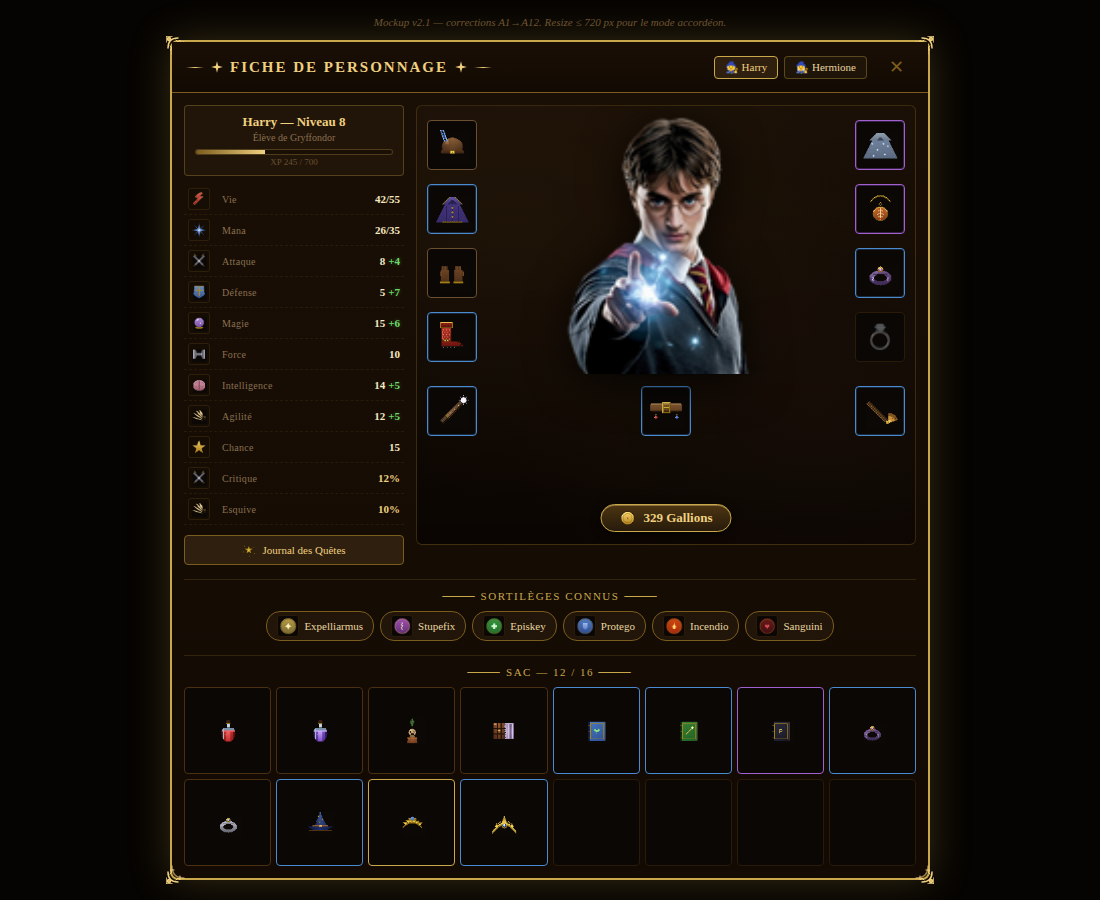
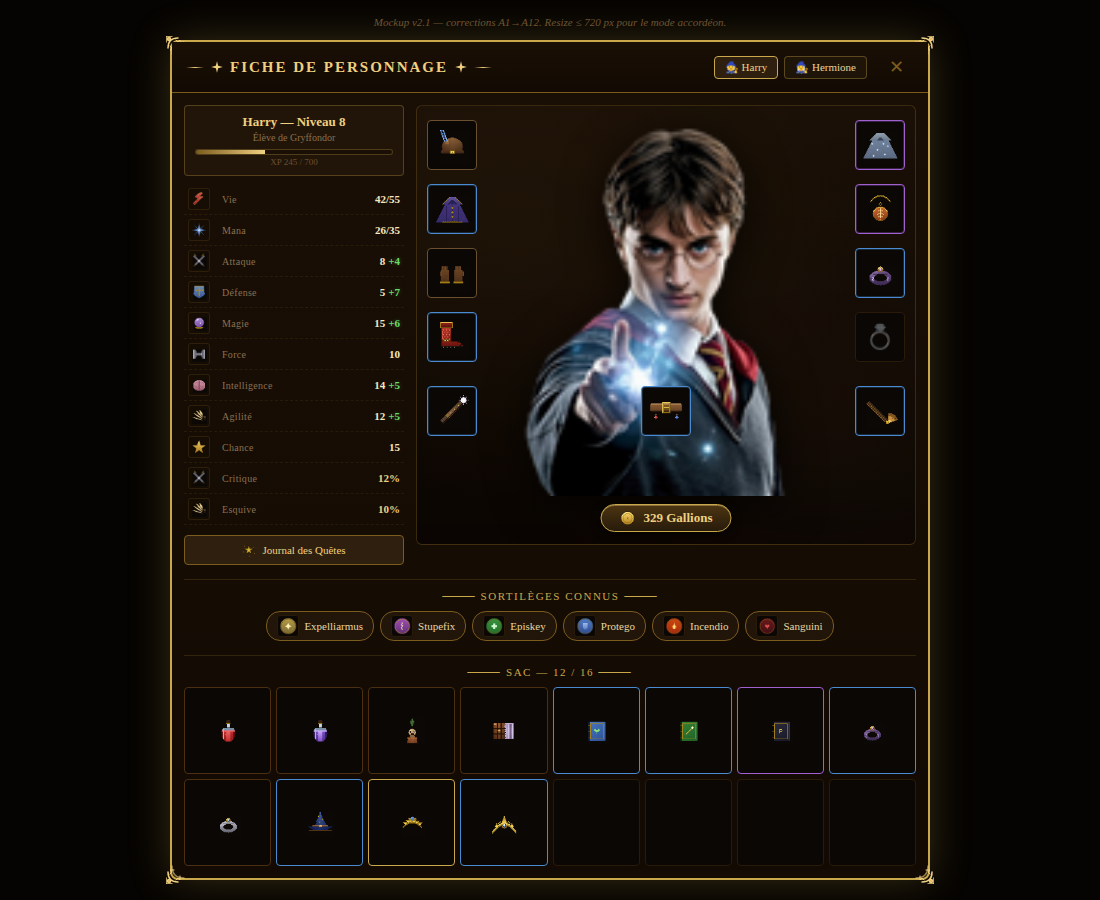
fix(character): mockup v2.5 — buste prend VRAIMENT l'espace disponible
v2.4 laissait 170px de marge basse + 70px de marge horizontale, soit
un wrapper de 260×260 dans un paper-doll de 440px : 59% seulement.
L'utilisateur avait raison de dire qu'il n'y avait pas de changement
visible.

Corrections :
- Wrapper marges réduites : top:4 / bottom:48 / left:64 / right:64
  → zone exploitée ~380×320, l'image carrée s'étire à 320×320.
- Slots équipement z-index:3 (au-dessus du buste z:2) → restent
  cliquables même si le buste passe sous eux.
- Slot belt overlay sur la ceinture du perso, comportement classique
  paper doll.
- Mobile : même resserrement (top:4 bottom:50 left:56 right:56).

Comparaison visuelle desktop (px du buste effectif) :
  v2.1 : ~210   v2.2 : ~220   v2.3 : ~120   v2.4 : ~260   v2.5 : ~320

Changed region(s): [[0.4636, 0.1244, 0.7109, 0.56]]

diff --git a/tools/mockup_character_v2.html b/tools/mockup_character_v2.html
@@ -200,14 +200,16 @@ body {
   border-radius:6px;
   overflow:hidden;
 }
-/* A1ter — buste = tout l'espace libre entre slots latéraux et slots du bas.
-   Wrapper absolu pour définir la zone, img à 100%/100% + object-fit:contain
-   pour que l'image carrée 128×128 s'adapte au min(W,H) sans déformation.
-   Sans wrapper : img absolu garde sa taille intrinsèque (cf. v2.3 raté). */
+/* A1quat — buste occupe TOUT l'espace dispo entre slots :
+   - haut : juste sous le bord (top:4)
+   - bas : juste au-dessus du gold-banner (bottom:48)
+   - côtés : juste à droite des slots latéraux (left:64, right:64)
+   - slot belt est dans la même zone, le perso passe derrière (z-index inférieur)
+   object-fit:contain → reste dans le ratio carré, prend min(W,H). */
 .pd-portrait-wrapper{
   position:absolute;
-  top:10px; bottom:170px;
-  left:70px; right:70px;
+  top:4px; bottom:48px;
+  left:64px; right:64px;
   z-index:2;
   pointer-events:none;
 }
@@ -254,7 +256,7 @@ body {
   display:flex; align-items:center; justify-content:center;
   cursor:pointer;
   transition:border-color 0.15s, transform 0.15s;
-  z-index:1;
+  z-index:3;                          /* au-dessus du buste (z:2) pour rester cliquables */
   font-size:24px;                     /* taille emoji slot vide */
 }
 .equip-slot:hover{ border-color:var(--gold-light); transform:scale(1.06); z-index:50; }
@@ -386,11 +388,11 @@ body {
   .tab          { font-size:10px; padding:2px 8px; }
   .char-grid    { grid-template-columns:1fr; gap:6px; }
   .section-toggle { display:block; }
-  /* A10 — mobile : wrapper resserré pour s'adapter aux slots 44px */
+  /* A10 — mobile : wrapper occupe tout l'espace dispo */
   .paper-doll   { height:400px; }
   .pd-portrait-wrapper {
-    top:8px; bottom:140px;
-    left:60px; right:60px;
+    top:4px; bottom:50px;
+    left:56px; right:56px;
   }
   .equip-slot   { width:44px; height:44px; font-size:20px; }
   .equip-slot img { width:30px; height:30px; }
